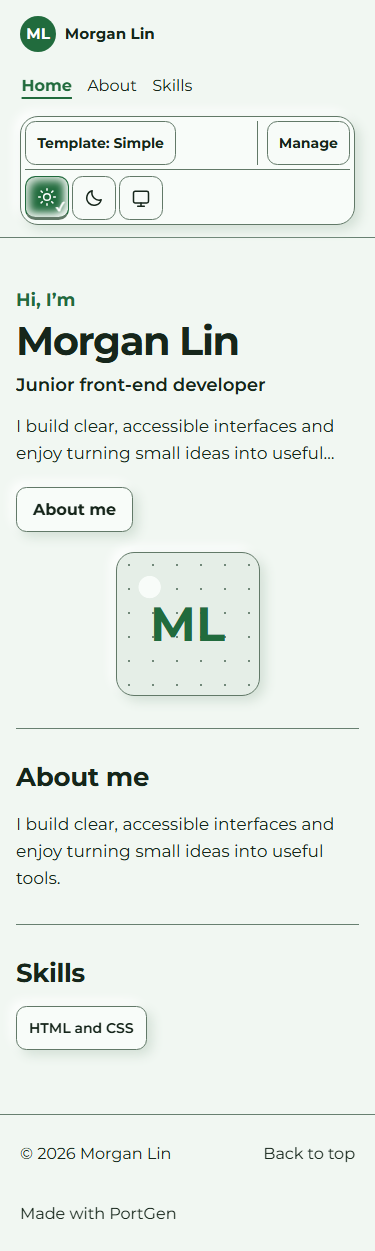
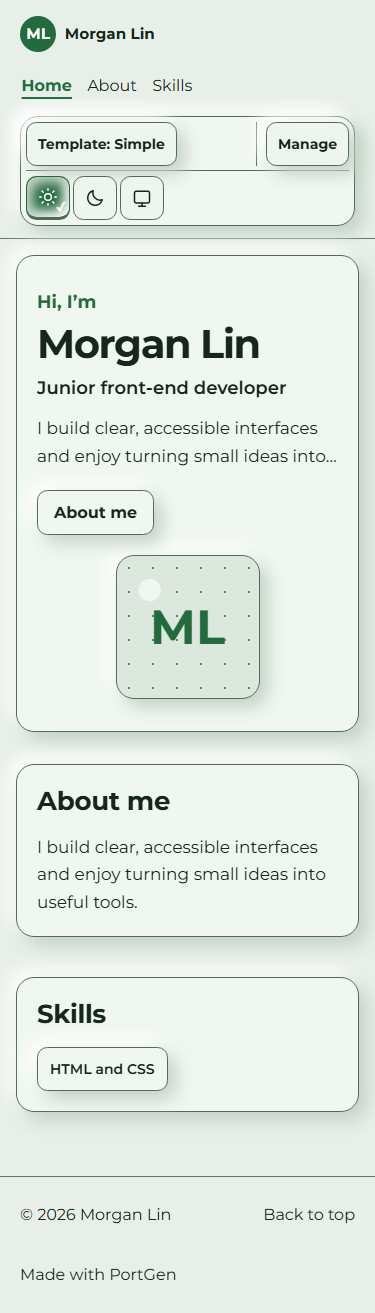
Refine Simple neumorphic surfaces (#10)

diff --git a/resources/css/app.css b/resources/css/app.css
@@ -2154,7 +2154,7 @@ img.pf-avatar {
     overflow: visible;
     border-radius: 0.75rem;
     background: var(--surface);
-    box-shadow: var(--elevation-0);
+    box-shadow: var(--shadow-inset);
     padding: 0.15rem;
 }
 
@@ -2166,7 +2166,7 @@ img.pf-avatar {
     border: 1px solid var(--border-strong);
     border-radius: 0.55rem;
     background: var(--surface);
-    box-shadow: var(--elevation-0);
+    box-shadow: var(--shadow-raised);
     color: var(--text);
     padding-inline: 0.45rem;
     font-size: 0.875rem;
@@ -2180,7 +2180,7 @@ img.pf-avatar {
     border-color: var(--border-strong);
     border-bottom: 3px solid var(--border-strong);
     background: var(--accent);
-    box-shadow: var(--elevation-2);
+    box-shadow: var(--shadow-inset);
     color: var(--accent-contrast);
 }
 
@@ -2203,7 +2203,7 @@ img.pf-avatar {
     border: 1px solid var(--border-strong);
     border-radius: 0.65rem;
     background: var(--surface);
-    box-shadow: var(--elevation-0);
+    box-shadow: var(--shadow-raised);
     color: var(--text);
     padding-inline: 0.7rem;
     font-size: 0.875rem;
@@ -2233,7 +2233,7 @@ img.pf-avatar {
     border: 1px solid var(--border-strong);
     border-radius: 0.65rem;
     background: var(--surface-raised);
-    box-shadow: var(--elevation-0);
+    box-shadow: var(--shadow-raised);
     color: var(--text);
 }
 
@@ -2286,6 +2286,14 @@ img.pf-avatar {
     color: var(--accent-contrast);
 }
 
+.pf-page[data-template="simple"] .pf-site-header__tools {
+    border: 1px solid var(--border-strong);
+    border-radius: var(--radius-surface);
+    background: var(--surface-raised);
+    box-shadow: var(--shadow-raised);
+    padding: 0.3rem;
+}
+
 .pf-page[data-template="simple"] .pf-ready-banner {
     display: flex;
     width: 100%;
@@ -2322,8 +2330,11 @@ img.pf-avatar {
     grid-template-columns: minmax(0, 1fr) minmax(0, 15rem);
     align-items: center;
     gap: clamp(2rem, 6vw, 4.5rem);
-    border-bottom: 1px solid var(--border);
-    padding-block: clamp(2rem, 4vw, 3rem);
+    border: 1px solid var(--border-strong);
+    border-radius: var(--radius-surface);
+    background: var(--surface-raised);
+    box-shadow: var(--shadow-raised);
+    padding: clamp(2rem, 4vw, 3rem) clamp(1.25rem, 4vw, 2.5rem);
 }
 
 .pf-page[data-template="simple"] .pf-template-content--simple .pf-hero__copy {
@@ -2373,7 +2384,7 @@ img.pf-avatar {
     border: 1px solid var(--border-strong);
     border-radius: 0.65rem;
     background: var(--accent);
-    box-shadow: var(--elevation-0);
+    box-shadow: var(--shadow-raised);
     color: var(--accent-contrast);
 }
 
@@ -2417,16 +2428,15 @@ img.pf-avatar {
 }
 
 .pf-page[data-template="simple"] .pf-template-content--simple .pf-section {
-    border: 0;
-    border-radius: 0;
-    background: transparent;
-    padding: 0;
+    border: 1px solid var(--border-strong);
+    border-radius: var(--radius-surface);
+    background: var(--surface-raised);
+    box-shadow: var(--shadow-raised);
+    padding: 1.75rem;
 }
 
 .pf-page[data-template="simple"] .pf-template-content--simple .pf-section:not(:last-child) {
-    border-bottom: 1px solid var(--border);
-    margin-bottom: 3rem;
-    padding-bottom: 3rem;
+    margin-bottom: 4rem;
 }
 
 .pf-page[data-template="simple"] .pf-template-content--simple .pf-section > h2 {
@@ -2457,8 +2467,8 @@ img.pf-avatar {
 .pf-page[data-template="simple"] .pf-template-content--simple .pf-quick-facts {
     border: 1px solid var(--border-strong);
     border-radius: var(--radius-surface);
-    background: var(--surface-raised);
-    box-shadow: var(--elevation-1);
+    background: var(--surface-inset);
+    box-shadow: var(--shadow-inset);
     padding: 1.25rem;
 }
 
@@ -2540,7 +2550,7 @@ img.pf-avatar {
     border: 1px solid var(--border-strong);
     border-radius: var(--radius-surface);
     background: var(--surface-raised);
-    box-shadow: var(--elevation-1);
+    box-shadow: var(--shadow-raised);
     padding: 1rem;
 }
 
@@ -2745,6 +2755,7 @@ img.pf-avatar {
         grid-template-columns: minmax(0, 1fr);
         gap: 1.25rem;
         padding-block: 2rem;
+        padding-inline: 1.25rem;
     }
 
     .pf-page[data-template="simple"] .pf-template-content--simple .pf-avatar--portrait {
@@ -2758,8 +2769,11 @@ img.pf-avatar {
     }
 
     .pf-page[data-template="simple"] .pf-template-content--simple .pf-section:not(:last-child) {
-        margin-bottom: 2rem;
-        padding-bottom: 2rem;
+        margin-bottom: 2.5rem;
+    }
+
+    .pf-page[data-template="simple"] .pf-template-content--simple .pf-section {
+        padding: 1.25rem;
     }
 
     .pf-page[data-template="simple"] .pf-template-content--simple .pf-about__grid {

diff --git a/resources/css/tokens.css b/resources/css/tokens.css
@@ -108,22 +108,22 @@
 [data-template="simple"][data-theme="light"],
 [data-template="simple"][data-theme="system"] {
     color-scheme: light;
-    --bg: #f1f7f2;
-    --surface: #f7fbf8;
-    --surface-2: #e7f0e9;
+    --bg: #e7efe8;
+    --surface: #eef5ef;
+    --surface-2: #dce8de;
     --text: #16261b;
     --muted: #44594b;
     --accent: #216b3d;
     --accent-contrast: #ffffff;
-    --border: #688071;
-    --border-strong: #627968;
-    --surface-raised: #f8fcf9;
-    --surface-inset: #e5eee7;
+    --border: #5f7866;
+    --border-strong: #526b59;
+    --surface-raised: #f0f7f1;
+    --surface-inset: #dce8de;
     --elevation-0: none;
-    --elevation-1: 5px 5px 12px #d3e0d6, -5px -5px 12px #ffffff;
-    --elevation-2: 7px 7px 16px #cbd9ce, -7px -7px 16px #ffffff;
+    --elevation-1: 8px 8px 18px #c3d1c5, -8px -8px 18px #ffffff;
+    --elevation-2: 12px 12px 24px #b8c9bb, -12px -12px 24px #ffffff;
     --shadow-raised: var(--elevation-1);
-    --shadow-inset: inset 4px 4px 8px #d3e0d6, inset -4px -4px 8px #ffffff;
+    --shadow-inset: inset 6px 6px 12px #c3d1c5, inset -6px -6px 12px #ffffff;
     --radius-surface: 18px;
     --material-blur: 0px;
     --focus: #075fc6;
@@ -136,22 +136,22 @@
 
 [data-template="simple"][data-theme="dark"] {
     color-scheme: dark;
-    --bg: #111a14;
-    --surface: #18241b;
-    --surface-2: #26372b;
+    --bg: #0d1510;
+    --surface: #141f17;
+    --surface-2: #202f24;
     --text: #f2f7f3;
     --muted: #c6d2c9;
     --accent: #7ab893;
     --accent-contrast: #102016;
     --border: #829688;
     --border-strong: #829688;
-    --surface-raised: #1c2b20;
-    --surface-inset: #0e1811;
+    --surface-raised: #19271d;
+    --surface-inset: #0a120d;
     --elevation-0: none;
-    --elevation-1: 5px 5px 12px #080d09, -5px -5px 12px #2a3b2f;
-    --elevation-2: 7px 7px 16px #070c08, -7px -7px 16px #2e4233;
+    --elevation-1: 8px 8px 18px #050906, -8px -8px 18px #2b3c30;
+    --elevation-2: 12px 12px 24px #040806, -12px -12px 24px #304435;
     --shadow-raised: var(--elevation-1);
-    --shadow-inset: inset 4px 4px 8px #080d09, inset -4px -4px 8px #2a3b2f;
+    --shadow-inset: inset 6px 6px 12px #050906, inset -6px -6px 12px #2b3c30;
     --radius-surface: 18px;
     --material-blur: 0px;
     --focus: #b6d3ff;
@@ -165,22 +165,22 @@
 @media (prefers-color-scheme: dark) {
     [data-template="simple"][data-theme="system"] {
         color-scheme: dark;
-        --bg: #111a14;
-        --surface: #18241b;
-        --surface-2: #26372b;
+        --bg: #0d1510;
+        --surface: #141f17;
+        --surface-2: #202f24;
         --text: #f2f7f3;
         --muted: #c6d2c9;
         --accent: #7ab893;
         --accent-contrast: #102016;
         --border: #829688;
         --border-strong: #829688;
-        --surface-raised: #1c2b20;
-        --surface-inset: #0e1811;
+        --surface-raised: #19271d;
+        --surface-inset: #0a120d;
         --elevation-0: none;
-        --elevation-1: 5px 5px 12px #080d09, -5px -5px 12px #2a3b2f;
-        --elevation-2: 7px 7px 16px #070c08, -7px -7px 16px #2e4233;
+        --elevation-1: 8px 8px 18px #050906, -8px -8px 18px #2b3c30;
+        --elevation-2: 12px 12px 24px #040806, -12px -12px 24px #304435;
         --shadow-raised: var(--elevation-1);
-        --shadow-inset: inset 4px 4px 8px #080d09, inset -4px -4px 8px #2a3b2f;
+        --shadow-inset: inset 6px 6px 12px #050906, inset -6px -6px 12px #2b3c30;
         --radius-surface: 18px;
         --material-blur: 0px;
         --focus: #b6d3ff;

diff --git a/resources/views/portfolios/templates/simple.blade.php b/resources/views/portfolios/templates/simple.blade.php
@@ -55,7 +55,7 @@
 
     <div class="pf-sections pf-sections--simple">
         @if ($hasAbout)
-            <x-pf.section id="about" title="About me" class="pf-about">
+            <x-pf.section id="about" title="About me" class="pf-about surface-raised">
                 <div class="pf-about__grid {{ count($aboutFacts) ? '' : 'pf-about__grid--single' }}">
                     @if (filled($about))
                         <div class="pf-about__copy">
@@ -65,7 +65,7 @@
                         </div>
                     @endif
                     @if (count($aboutFacts))
-                        <div class="pf-quick-facts surface-raised">
+                        <div class="pf-quick-facts surface-inset">
                             <p class="pf-quick-facts__heading">Quick facts</p>
                             <dl class="pf-facts">
                                 @foreach ($aboutFacts as $label => $value)
@@ -82,7 +82,7 @@
         @endif
 
         @if ($uniqueSkills->isNotEmpty())
-            <x-pf.section id="skills" title="Skills" class="pf-skills">
+            <x-pf.section id="skills" title="Skills" class="pf-skills surface-raised">
                 <ul class="pf-skills-grid pf-skills-grid--simple {{ $uniqueSkills->count() > 12 ? 'pf-skills-grid--dense' : '' }}">
                     @foreach ($uniqueSkills as $skill)
                         <li><x-pf.skill-chip :label="$skill" material="raised" /></li>
@@ -92,7 +92,7 @@
         @endif
 
         @if ($hasProjects)
-            <x-pf.section id="projects" title="Projects" class="pf-projects">
+            <x-pf.section id="projects" title="Projects" class="pf-projects surface-raised">
                 <ul class="pf-project-grid">
                     @foreach ($portfolio->projects as $index => $project)
                         <li>
@@ -114,7 +114,7 @@
         @endif
 
         @if (count($portfolio->work_experience ?? []))
-            <x-pf.section id="experience" title="Experience" class="pf-experience">
+            <x-pf.section id="experience" title="Experience" class="pf-experience surface-raised">
                 <ol class="pf-timeline">
                     @foreach ($portfolio->work_experience as $experience)
                         @php
@@ -136,7 +136,7 @@
         @endif
 
         @if (count($portfolio->education ?? []))
-            <x-pf.section id="education" title="Education" class="pf-education">
+            <x-pf.section id="education" title="Education" class="pf-education surface-raised">
                 <ol class="pf-timeline">
                     @foreach ($portfolio->education as $education)
                         <x-pf.timeline-item
@@ -150,7 +150,7 @@
         @endif
 
         @if ($hasContact)
-            <x-pf.section id="contact" title="Get in touch" class="pf-contact">
+            <x-pf.section id="contact" title="Get in touch" class="pf-contact surface-raised">
                 <p class="pf-contact__intro">For enquiries, use one of the options below.</p>
                 <x-pf.contact-links :links="$portfolio->social_links ?? []" :email="$portfolio->contact_email" :simple="true" />
             </x-pf.section>

diff --git a/resources/views/components/pf/hero.blade.php b/resources/views/components/pf/hero.blade.php
@@ -11,7 +11,7 @@
     'material' => null,
 ])
 
-<section id="home" class="pf-hero" aria-label="Introduction">
+<section id="home" class="pf-hero {{ $material === 'raised' ? 'surface-raised' : '' }}" aria-label="Introduction">
     <div class="pf-hero__copy">
         <p class="pf-hero__eyebrow">Hi, I’m</p>
         <h1>{{ $name }}</h1>
